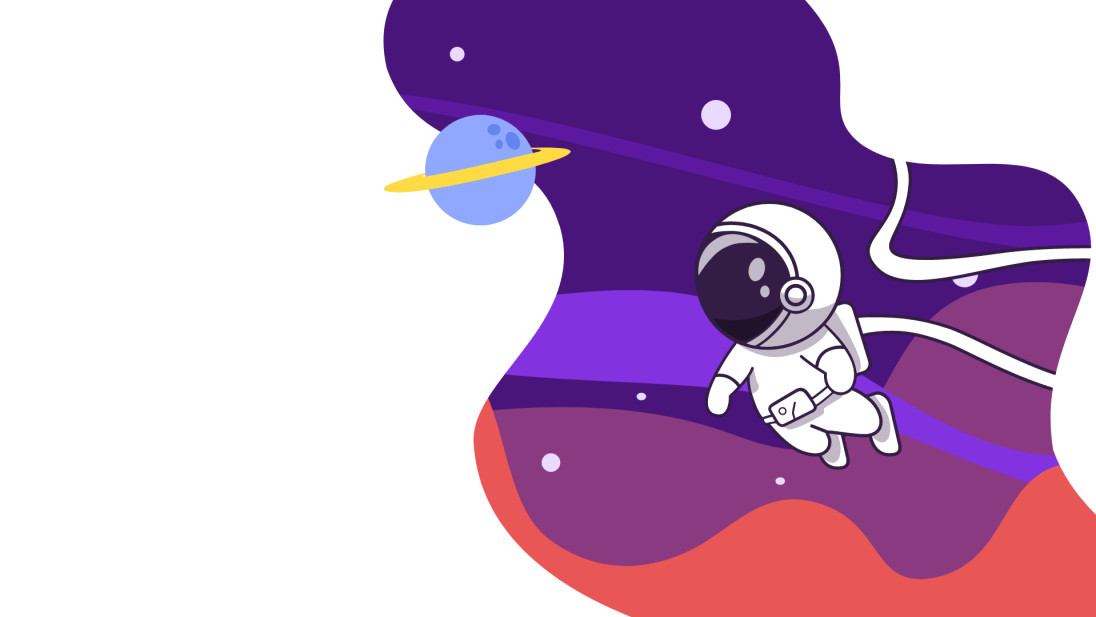
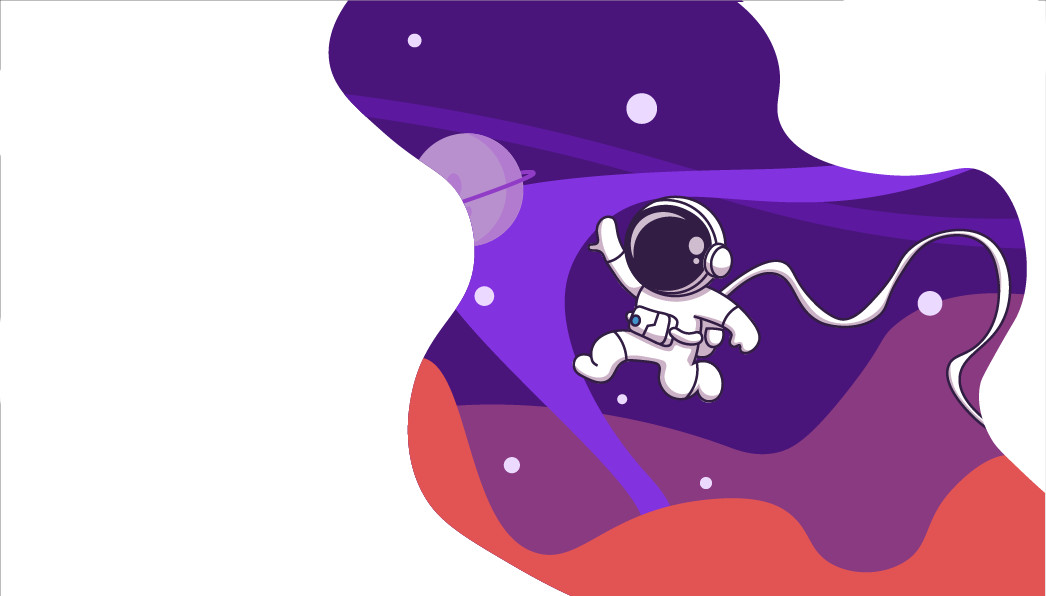
ajout des pages de réinitialisation de mdp ainsi que de connexion

Changed region(s): [[0.3059, 0.0, 1.0, 1.0], [0.8872, 0.8154, 0.9178, 0.906], [0.979, 0.8154, 1.0, 0.8456]]

diff --git a/app-assets/css/components.css b/app-assets/css/components.css
@@ -166,6 +166,13 @@ html body.bg-auth-image {
   background-size: cover;
 }
 
+html body.bg-password-image {
+  background-image: url(../../app-assets/images/pages/changement_mdp_l.png),url(../../app-assets/images/pages/changement_mdp_r.png);
+  background-repeat: no-repeat;
+  background-size: contain;
+  background-position: left center, right center;
+}
+
 html body.blank-page .content {
   margin-left: 0;
 }

diff --git a/html/ltr/coqpix/backend/auth-login-admin.php b/html/ltr/coqpix/backend/auth-login-admin.php
@@ -1,42 +1,45 @@
 <!DOCTYPE html>
-<html class="loading" lang="fr" data-textdirection="ltr">
+<html class="loading" lang="en" data-textdirection="ltr">
 <!-- BEGIN: Head-->
 
 <head>
     <meta http-equiv="Content-Type" content="text/html; charset=UTF-8">
     <meta http-equiv="X-UA-Compatible" content="IE=edge">
     <meta name="viewport" content="width=device-width, initial-scale=1.0, user-scalable=0">
-    <meta name="description" content="Coqpix crée By audit action plus est une application dans le domaine de la gestion d'entreprise et la comptabilité connectée">
-    <meta name="keywords" content="application, audit action plus, expert comptable, application facile, Youness Haddou, web application">
-    <meta name="author" content="Audit action plus - Youness Haddou">
-    <title>Connexion</title>
-    <link rel="shortcut icon" type="image/x-icon" href="app-assets/images/ico/favicon.png">
+    <meta name="description" content="Frest admin is super flexible, powerful, clean &amp; modern responsive bootstrap 4 admin template with unlimited possibilities.">
+    <meta name="keywords" content="admin template, Frest admin template, dashboard template, flat admin template, responsive admin template, web app">
+    <meta name="author" content="PIXINVENT">
+    <title>Connexion - Admin</title>
+    <link rel="apple-touch-icon" href="../../../../app-assets/images/ico/apple-icon-120.png">
+    <link rel="shortcut icon" type="image/x-icon" href="../../../../app-assets/images/ico/favicon.png">
     <link href="https://fonts.googleapis.com/css?family=Rubik:300,400,500,600%7CIBM+Plex+Sans:300,400,500,600,700" rel="stylesheet">
 
     <!-- BEGIN: Vendor CSS-->
-    <link rel="stylesheet" type="text/css" href="app-assets/vendors/css/vendors.min.czzss">
+    <link rel="stylesheet" type="text/css" href="../../../../app-assets/vendors/css/vendors.min.css">
     <!-- END: Vendor CSS-->
 
     <!-- BEGIN: Theme CSS-->
-    <link rel="stylesheet" type="text/css" href="app-assets/css/bootstrap.css">
-    <link rel="stylesheet" type="text/css" href="app-assets/css/bootstrap-extended.css">
-    <link rel="stylesheet" type="text/css" href="app-assets/css/colors.css">
-    <link rel="stylesheet" type="text/css" href="app-assets/css/components.css">
-    <link rel="stylesheet" type="text/css" href="app-assets/css/themes/dark-layout.css">
-    <link rel="stylesheet" type="text/css" href="app-assets/css/themes/semi-dark-layout.css">
+    <link rel="stylesheet" type="text/css" href="../../../../app-assets/css/bootstrap.css">
+    <link rel="stylesheet" type="text/css" href="../../../../app-assets/css/bootstrap-extended.css">
+    <link rel="stylesheet" type="text/css" href="../../../../app-assets/css/colors.css">
+    <link rel="stylesheet" type="text/css" href="../../../../app-assets/css/components.css">
+    <link rel="stylesheet" type="text/css" href="../../../../app-assets/css/themes/dark-layout.css">
+    <link rel="stylesheet" type="text/css" href="../../../../app-assets/css/themes/semi-dark-layout.css">
     <!-- END: Theme CSS-->
 
     <!-- BEGIN: Page CSS-->
-    <link rel="stylesheet" type="text/css" href="app-assets/css/core/menu/menu-types/vertical-menu.css">
-    <link rel="stylesheet" type="text/css" href="app-assets/css/pages/authentication.css">
+    <link rel="stylesheet" type="text/css" href="../../../../app-assets/css/core/menu/menu-types/horizontal-menu.css">
+    <link rel="stylesheet" type="text/css" href="../../../../app-assets/css/pages/authentication.css">
     <!-- END: Page CSS-->
 
     <!-- BEGIN: Custom CSS-->
-    <link rel="stylesheet" type="text/css" href="assets/css/style.css">
+    <link rel="stylesheet" type="text/css" href="../../../../assets/css/style.css">
     <!-- END: Custom CSS-->
 
 </head>
 <!-- END: Head-->
+
+<!-- BEGIN: Body-->
 
 <body class="vertical-layout vertical-menu-modern semi-dark-layout 1-column  navbar-sticky footer-static bg-auth-image blank-page" data-open="click" data-menu="vertical-menu-modern" data-col="1-column" data-layout="semi-dark-layout">
     <!-- BEGIN: Content-->
@@ -56,8 +59,9 @@
                                 <div class="col-12 col-md-5 px-0">
                                     <div class=" mb-0 p-2 h-100">
                                         <div class=" pb-3">
-                                            <a href="html/ltr/coqpix/backend/auth-login-admin.php">
-                                                <img class="logocoq" src="app-assets/images/logo/logo_connexion.png" />
+                                            <a href="../../../../">
+                                                <img class="logocoq" src="../../../../app-assets/images/logo/logo_connexion.png" />
+                                                <h1 class="text-purple"> Administrateur</h1> 
                                             </a>
                                         </div>
                                         <?php if(isset($_GET["error"])) {
@@ -67,7 +71,7 @@
                                         <div class="">
                                             <div class="">
                                                 
-                                                <form action="html/ltr/coqpix/php/verif.php" method="GET">
+                                                <form action="html/ltr/coqpix/php/verif-admin.php" method="GET">
                                                     <div class="form-group mb-3">
                                                         <label class="h3" for="exampleInputEmail1" ><div class="text-purple">E-Mail :</div></label>
                                                         <input name="emailentreprise" type="email" class="form-control form-control-purple text-purple rounded-pill" id="exampleInputEmail1" placeholder="Adresse email"  required></div>
@@ -82,20 +86,16 @@
                                                                 <label class="text-purple" for="exampleCheck1">Rester connecté</label>
                                                             </div>
                                                         </div>
-                                                        <!-- MOT DE PASSE OUBLIER -->
+                                                        <!-- MOT DE PASSE OUBLIER 
                                                         <div class="text-right"><a href="html/ltr/coqpix/reset-password.php" class="card-link text-purple text-decoration-underline">Mot de passe oublié</a></div>
+                                                        -->
                                                     </div>
                                                     <div class="row mb-1">
                                                         <div class="col-2"></div>
                                                         <input type="submit" value="Se connecter" class="btn rounded-pill btn-purple glow col-8 position-relative">
                                                     </div>
                                                 </form>
-                                                <form action="html/ltr/coqpix/creation-societe.php">
-                                                    <div class="row">
-                                                        <div class="col-2"></div>
-                                                        <input type="submit" class="btn rounded-pill btn-purple col-8 mt-2 font-weight-bold" value="S'inscrire">
-                                                    </div> 
-                                                </form> 
+                                                        <h5 class="text-purple text-center mt-2 font-weight-bold"> Contactez contact@auditactionplus.com en cas de probleme </h5>
                                             </div>
                                         </div>
                                     </div>
@@ -125,24 +125,25 @@
 
 
     <!-- BEGIN: Vendor JS-->
-    <script src="app-assets/vendors/js/vendors.min.js"></script>
-    <script src="app-assets/fonts/LivIconsEvo/js/LivIconsEvo.tools.js"></script>
-    <script src="app-assets/fonts/LivIconsEvo/js/LivIconsEvo.defaults.js"></script>
-    <script src="app-assets/fonts/LivIconsEvo/js/LivIconsEvo.min.js"></script>
+    <script src="../../../../app-assets/vendors/js/vendors.min.js"></script>
+    <script src="../../../../app-assets/fonts/LivIconsEvo/js/LivIconsEvo.tools.js"></script>
+    <script src="../../../../app-assets/fonts/LivIconsEvo/js/LivIconsEvo.defaults.js"></script>
+    <script src="../../../../app-assets/fonts/LivIconsEvo/js/LivIconsEvo.min.js"></script>
     <!-- BEGIN Vendor JS-->
 
     <!-- BEGIN: Page Vendor JS-->
+    <script src="../../../../app-assets/vendors/js/ui/jquery.sticky.js"></script>
     <!-- END: Page Vendor JS-->
 
     <!-- BEGIN: Theme JS-->
-    <script src="app-assets/js/scripts/configs/vertical-menu-dark.js"></script>
-    <script src="app-assets/js/core/app-menu.js"></script>
-    <script src="app-assets/js/core/app.js"></script>
-    <script src="app-assets/js/scripts/components.js"></script>
-    <script src="app-assets/js/scripts/footer.js"></script>
+    <script src="../../../../app-assets/js/scripts/configs/horizontal-menu.js"></script>
+    <script src="../../../../app-assets/js/scripts/configs/vertical-menu-dark.js"></script>
+    <script src="../../../../app-assets/js/core/app-menu.js"></script>
+    <script src="../../../../app-assets/js/core/app.js"></script>
+    <script src="../../../../app-assets/js/scripts/components.js"></script>
+    <script src="../../../../app-assets/js/scripts/footer.js"></script>
     <!-- END: Theme JS-->
-    
-    
+
     <!-- BEGIN: Page JS-->
     <!-- END: Page JS-->
 

diff --git a/html/ltr/coqpix/forget-password.php b/html/ltr/coqpix/forget-password.php
@@ -21,28 +21,29 @@ if (isset($key) && !empty($key)) {
 } else {
     header('Location: ../../../index.php');
 }
+if (isset($_POST['passwordentreprise']) && isset($_POST['passwordentreprise2'])) {
+    $mdp1 = htmlspecialchars($_POST['passwordentreprise']);
+    $mdp2 = htmlspecialchars($_POST['passwordentreprise2']);
 
-$mdp1 = htmlspecialchars($_POST['passwordentreprise']);
-$mdp2 = htmlspecialchars($_POST['passwordentreprise2']);
+    if ($mdp1 == $mdp2 && $mdp1 != "") {
 
-if ($mdp1 == $mdp2 && $mdp1 != "") {
+        $coq_new_mdp_h = crypt($mdp1, "5c725a26307c3b5170634a7e2b");
+        $coq_update_mdp = $bdd->prepare('UPDATE entreprise SET passwordentreprise = ? WHERE emailentreprise = ?');
+        $coq_update_mdp->execute(array($coq_new_mdp_h, $mail['mail']));
 
-    $coq_new_mdp_h = crypt($mdp1, "5c725a26307c3b5170634a7e2b");
-    $coq_update_mdp = $bdd->prepare('UPDATE entreprise SET passwordentreprise = ? WHERE emailentreprise = ?');
-    $coq_update_mdp->execute(array($coq_new_mdp_h, $mail['mail']));
+        $coq_delete_key = $bdd->prepare('DELETE FROM reset_key WHERE mail = ?');
+        $coq_delete_key->execute(array($mail['mail']));
 
-    $coq_delete_key = $bdd->prepare('DELETE FROM reset_key WHERE mail = ?');
-    $coq_delete_key->execute(array($mail['mail']));
+        header('Location: ../../../');
 
-    header('Location: ../../../');
-
-} else if ($mdp1 != "") {
-    header("Location: forget-password.php?key=". $key ."&error=0");
+    } else if ($mdp1 != "") {
+        header("Location: forget-password.php?key=". $key ."&error=0");
+    }
 }
 
 ?>
 <body
-    class="vertical-layout vertical-menu-modern semi-dark-layout 1-column  navbar-sticky footer-static bg-full-screen-image  blank-page blank-page"
+    class="vertical-layout vertical-menu-modern semi-dark-layout 1-column  navbar-sticky footer-static bg-password-image  blank-page blank-page"
     data-open="click" data-menu="vertical-menu-modern" data-col="1-column" data-layout="semi-dark-layout">
     <!-- BEGIN: Content-->
     <div class="app-content content">
@@ -54,45 +55,47 @@ if ($mdp1 == $mdp2 && $mdp1 != "") {
                 <!-- login page start -->
                 <section id="auth-login" class="row flexbox-container">
                     <div class="col-xl-8 col-11">
-                        <div class="card bg-authentication mb-0">
+                        <div class=" bg-authentication mb-0">
                             <div class="row m-0">
                                 <!-- left section-login -->
                                 <div class="col-12 px-0">
                                     <div
-                                        class="card disable-rounded-right mb-0 p-2 h-100 d-flex justify-content-center">
-                                        <div class="card-header pb-1">
-                                            <div class="card-title">
-                                                <h4 class="text-center mb-2">Rénitialiser mot de passe</h4>
-                                            </div>
+                                        class=" mb-0 p-2 h-100 ">
+                                        <div class=" pb-1">
+                                                <h2 class="text-center mb-2 text-purple">Changer mon mot de passe</h2>
                                         </div>
-                                        <div class="card-content">
-                                            <div class="card-body">
-                                                <?php if (htmlspecialchars($_GET['error']) == "0") {?>
-                                                    <h6 class="text-warning">Les mots de passe ne correspondent pas</h6>
+                                        <div class=" pb-1">
+                                                <h5 class="text-center mb-2 text-purple">Pour changer votre mot de passe veuillez compléter les informations ci-dessous</h5>
+                                        </div>
+                                                <?php 
+                                                    if (isset($_GET['error']) && htmlspecialchars($_GET['error']) == "0") {?>
+                                                    <h6 class="text-danger">Les mots de passe ne correspondent pas</h6>
                                                 <?php } ?>
+                                            <div class="row">
+                                                <div class="col-3"></div>
+                                                <div class="col-6">
                                                 <form action="" method="POST" enctype="multipart/form-data">
                                                     <div class="form-group">
-                                                        <label class="text-bold-600" for="exampleInputPassword1">Mot de
+                                                        <label class="text-bold-600 text-purple" for="exampleInputPassword1">Saisissez votre mot de
                                                             passe :</label>
                                                         <input name="passwordentreprise" type="password"
-                                                            class="form-control" id="exampleInputPassword1"
+                                                            class="form-control form-control-purple text-purple rounded-pill" id="exampleInputPassword1"
                                                             placeholder="Mot de passe" required>
                                                     </div>
-                                                    <div class="form-group">
-                                                        <label class="text-bold-600" for="exampleInputPassword1">Vérifier mot de
+                                                    <div class="form-group mb-3">
+                                                        <label class="text-bold-600 text-purple" for="exampleInputPassword1">Resaisissez votre mot de
                                                             passe :</label>
                                                         <input name="passwordentreprise2" type="password"
-                                                            class="form-control" id="exampleInputPassword1"
+                                                            class="form-control form-control-purple text-purple rounded-pill" id="exampleInputPassword1"
                                                             placeholder="Vérifier mot de passe" required>
                                                     </div>
-                                                    <input type="submit" value="Se connecter"
-                                                        class="btn btn-primary glow w-100 position-relative">
+                                                    <div class="row">
+                                                        <div class="col-2"></div>
+                                                        <input type="submit" value="Enregistrer" class="btn btn rounded-pill btn-purple glow col-8 position-relative">
+                                                    </div>
                                                 </form>
-                                                <hr>
-                                                <div class="text-center"><small class="mr-25">Contactez
-                                                        contact@auditactionplus.com en cas de probème.</small></div>
+                                                </div>
                                             </div>
-                                        </div>
                                     </div>
                                 </div>
                             </div>

diff --git a/html/ltr/coqpix/reset-password.php b/html/ltr/coqpix/reset-password.php
@@ -10,7 +10,7 @@ include 'includes/menus/head-front.php';
 
 <link rel="stylesheet" type="text/css" href="../../../app-assets/css/pages/authentication.css">
 
-<body class="vertical-layout vertical-menu-modern semi-dark-layout 1-column  navbar-sticky footer-static bg-full-screen-image  blank-page blank-page" data-open="click" data-menu="vertical-menu-modern" data-col="1-column" data-layout="semi-dark-layout">
+<body class="vertical-layout vertical-menu-modern semi-dark-layout 1-column  navbar-sticky footer-static bg-password-image  blank-page blank-page" data-open="click" data-menu="vertical-menu-modern" data-col="1-column" data-layout="semi-dark-layout">
     <!-- BEGIN: Content-->
     <div class="app-content content">
         <div class="content-overlay"></div>
@@ -18,41 +18,37 @@ include 'includes/menus/head-front.php';
             <div class="content-header row">
             </div>
             <div class="content-body">
-                <!-- login page start -->
-                <section id="auth-login" class="row flexbox-container">
-                    <div class="col-xl-8 col-11">
-                        <div class="card bg-authentication mb-0">
+                <!-- reset pasword page start -->
+                <section id="mail-reset" class="row flexbox-container">
+                    <div class="col-md-8 col-12">
+                        <div class="bg-authentication mb-0">
                             <div class="row m-0">
-                                <!-- left section-login -->
                                 <div class="col-12 px-0">
-                                    <div class="card disable-rounded-right mb-0 p-2 h-100 d-flex justify-content-center">
-                                        <div class="card-header pb-1">
-                                            <div class="card-title">
-                                                <h4 class="text-center mb-2">Récupération mot de passe</h4>
-                                            </div>
+                                    <div class="mb-0 p-2 h-100">
+                                        <div class=" pb-1">
+                                                <h2 class="text-center mb-2 text-purple">Récupération mot de passe</h4=2>
                                         </div>
-                                        <div class="card-content">
-                                            <div class="card-body">
                                                 <form action="send_mail_mdp.php" method="POST" enctype="multipart/form-data">
-                                                    <div class="form-group">
-                                                        <label class="text-bold-600" for="exampleInputPassword1">Entrer votre e-mail</label>
-                                                        <input name="email" type="email" class="form-control" id="exampleEMail" placeholder="exemple@gmail.com" required>
+                                                    <div class="form-group mb-3">
+                                                        <label class="text-bold-600" for="exampleInputPassword1"><div class=text-purple>Entrer votre e-mail</div></label>
+                                                        <input name="email" type="email" class="form-control form-control-purple text-purple rounded-pill" id="exampleEMail" placeholder="exemple@gmail.com" required>
                                                     </div>
-                                                    <input type="submit" value="Envoyer le mail" class="btn btn-primary glow w-100 position-relative">
+                                                    <div class="row mb-1">
+                                                        <div class="col-3"></div>
+                                                        <input type="submit" value="Envoyer le mail" class="btn btn rounded-pill btn-purple glow col-6 position-relative">
+                                                    </div>
                                                 </form>
-                                                <hr>
-                                                <div class="text-center"><small class="mr-25">Contactez
-                                                        contact@auditactionplus.com en cas de probème.</small>
+                                                <div class="text-center">
+                                                    <h5 class="mt-3 text-purple">Contactez
+                                                        contact@auditactionplus.com en cas de probème.</h5>
                                                 </div>
-                                            </div>
-                                        </div>
                                     </div>
                                 </div>
                             </div>
                         </div>
                     </div>
                 </section>
-                <!-- login page ends -->
+                <!-- reset password page ends -->
 
             </div>
         </div>

diff --git a/html/ltr/coqpix/php/verif_session_connect_admin.php b/html/ltr/coqpix/php/verif_session_connect_admin.php
@@ -22,13 +22,13 @@ else
 {  if (substr($_SESSION['role'],0,1) == '1' && in_array("comptable", $authorised_roles)){
       //le comptable a accès à cette page
    }  
-   elseif (substr($_SESSION['role'],1,2) == '1' && in_array("juriste", $authorised_roles)){
+   elseif (substr($_SESSION['role'],1,1) == '1' && in_array("juriste", $authorised_roles)){
       //le comptable a accès à cette page
    }  
-   elseif (substr($_SESSION['role'],2,3) == '1' && in_array("gestionnaire social", $authorised_roles)){
+   elseif (substr($_SESSION['role'],2,1) == '1' && in_array("gestionnaire social", $authorised_roles)){
       //le comptable a accès à cette page
    }  
-   elseif (substr($_SESSION['role'],3,4) == '1' && in_array("gestionnaire fiscal", $authorised_roles)){
+   elseif (substr($_SESSION['role'],3,1) == '1' && in_array("gestionnaire fiscal", $authorised_roles)){
       //le comptable a accès à cette page
    }  
    else {

diff --git a/html/ltr/coqpix/php/insert_dsn.php b/html/ltr/coqpix/php/insert_dsn.php
@@ -33,10 +33,10 @@ require_once 'config.php';
         exit();
     }
     
-    $name_files = $_FILES['doc_files']['name'];                         
+    $name_files = htmlspecialchars($_FILES['doc_files']['name']);                         
     $date_now = '-'.date("H-i-s");
     $type_files = "." . strtolower(substr(strrchr($name_files, '.'), 1));
-    $target_file = $_FILES['doc_files']['tmp_name'];                                     
+    $target_file = htmlspecialchars($_FILES['doc_files']['tmp_name']);                                     
     $real_name = substr($name_files, 0, -4);
     $file_name = $dir. $real_name . $date_now . $type_files; 
 
